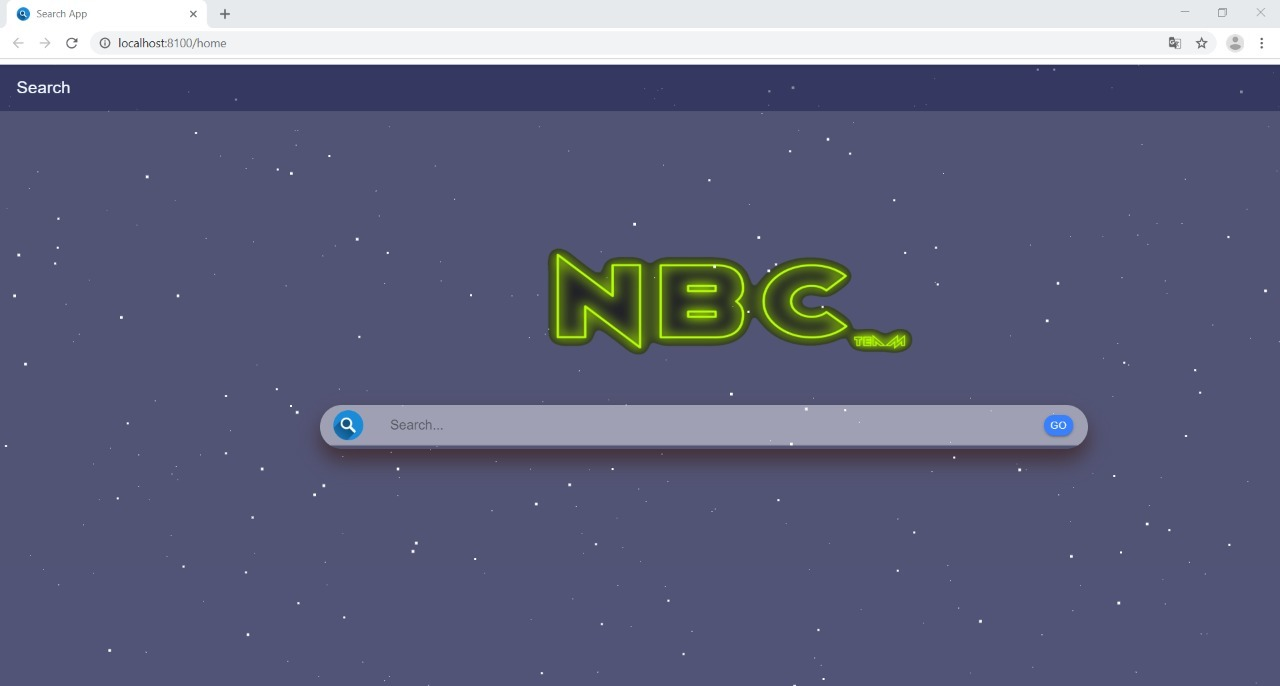
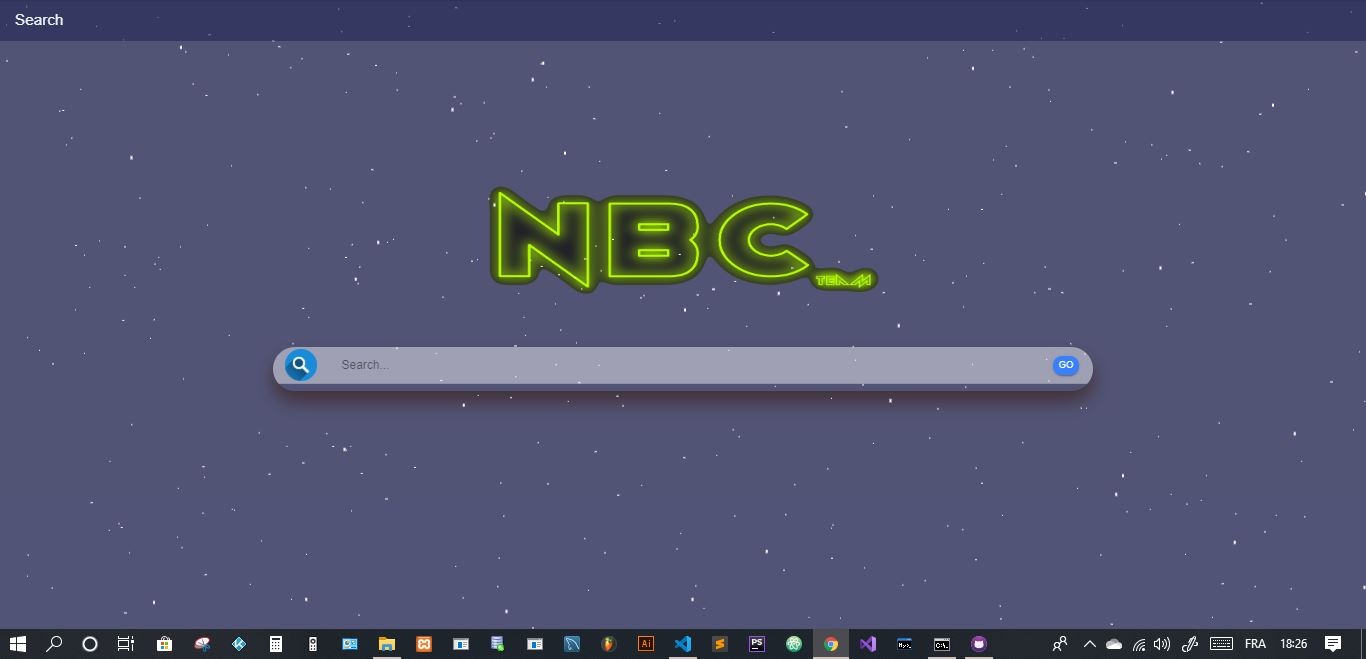
Merge branch 'master' of https://github.com/NBCteam/Application-Recherche-Par-Texte-ionic-django

diff --git a/src/app/home/home.page.html b/src/app/home/home.page.html
@@ -4,14 +4,14 @@
  <div id="stars2"></div>
  <div id="stars3"></div>
 </section>
-</ion-header>
+</ion-header >
 
 <ion-content class="content-setting" >
 <ion-toolbar class="toolbar-setting">
  <ion-title style="color: aliceblue;"> Search </ion-title>
 </ion-toolbar>
-<img src="assets/NBCTeam.png" alt="" width="30%" height="20%" style="margin-top: 10%;margin-left: 42%;margin-right: 40%;">   
-<ion-item  class="item-setting">
+<img src="assets/NBCTeam.png" alt="" width="30%" height="20%" style="margin-top: 10%;margin-left: 35%;">   
+<ion-item  class="item-setting" >
  <img src="assets/icon/Search-img.png" alt="" slot="start" width="4%" height="4%">
  <ion-input   placeholder="Search..." width="90%" height="13%"></ion-input>
  <ion-button expand="round" width="5%" height="5%" slot="end"> Go </ion-button>

diff --git a/src/app/home/home.page.scss b/src/app/home/home.page.scss
@@ -15,8 +15,7 @@ ion-item.item-setting{
     box-shadow: 0px 14px 25px rgba(63, 40, 40, 0.842); 
     width: 60%;
     height: 7%;
-    margin-left: 25%;
-    margin-right: 25%;
+    margin-left: 20%;
     margin-top: 3%;
     border-radius: 40px;
     

diff --git a/Redme.md b/Redme.md
@@ -5,3 +5,8 @@ By NOURI Aimene - BOUHADDA Wail - CHAKFI Ahmed
 
       @DEV_WEB
       @EST_SidiBennour_GI
+
+NBC mean our team;
+N: NOURI Aimene.
+B: BOUHADDA Wail.
+C: CHAKFI Ahmed.
